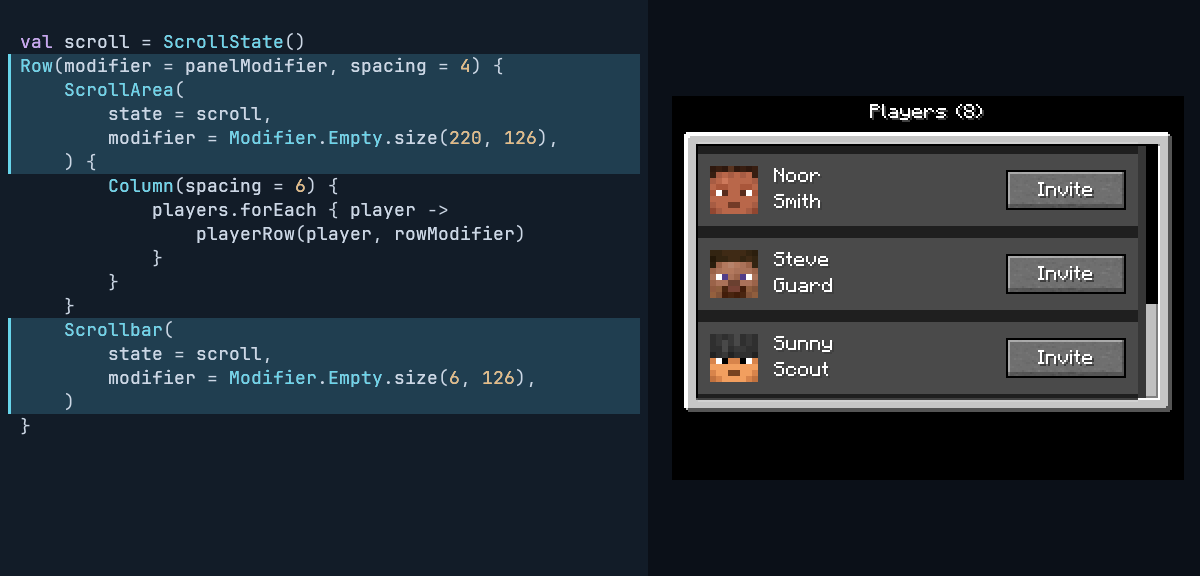
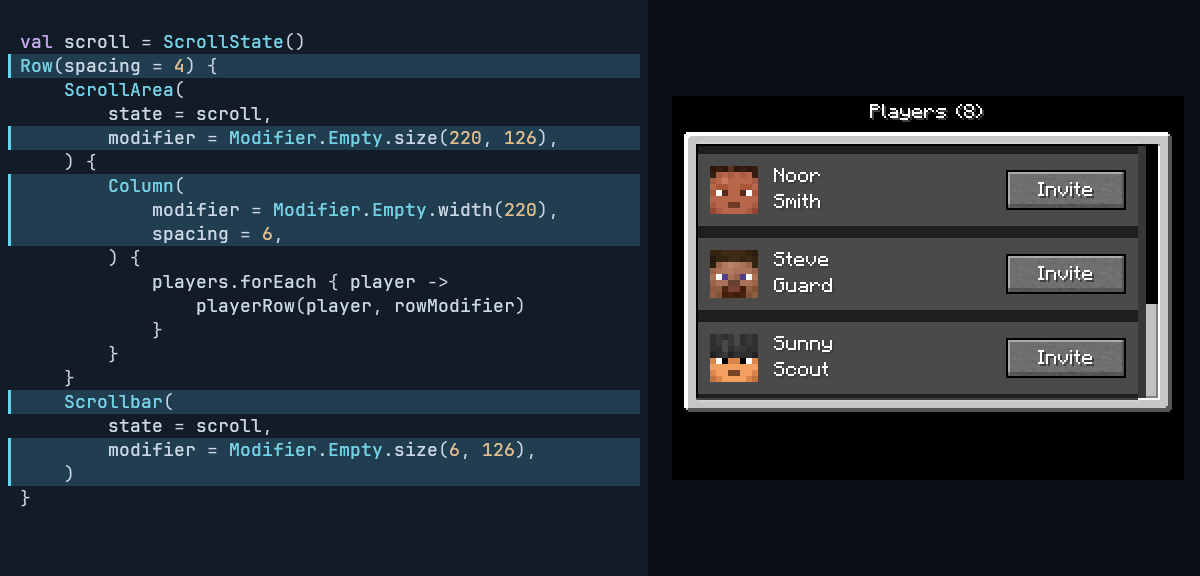
Set README demo list width on the outer Column

Changed region(s): [[0.0, 0.4688, 0.555, 0.8438], [0.0, 0.25, 0.555, 0.4688], [0.0, 0.0938, 0.555, 0.2188]]

diff --git a/integration/docs/src/test/kotlin/dev/s7a/strata/integration/docs/ReadmeDemoLayoutTest.kt b/integration/docs/src/test/kotlin/dev/s7a/strata/integration/docs/ReadmeDemoLayoutTest.kt
@@ -1,11 +1,16 @@
 package dev.s7a.strata.integration.docs
 
+import dev.s7a.strata.component.Column
 import dev.s7a.strata.geometry.IntOffset
 import dev.s7a.strata.geometry.IntRect
 import dev.s7a.strata.geometry.IntSize
 import dev.s7a.strata.input.InputResult
 import dev.s7a.strata.input.PointerEvent
+import dev.s7a.strata.integration.docs.example.ReadmeDemoChrome
 import dev.s7a.strata.integration.docs.example.ReadmeDemoColors
+import dev.s7a.strata.integration.docs.example.playerRow
+import dev.s7a.strata.modifier.Modifier
+import dev.s7a.strata.modifier.width
 import dev.s7a.strata.runtime.FrameTime
 import dev.s7a.strata.runtime.minecraft.createMinecraftUiHost
 import dev.s7a.strata.runtime.minecraft.font.lwjgl.LwjglMinecraftFontBackendFactory
@@ -22,7 +27,7 @@ import org.junit.jupiter.api.io.TempDir
 import java.nio.file.Path
 
 /**
- * Verifies natural sizing, fixed row widths, and text-only alignment using real compiled screen geometry.
+ * Verifies natural sizing, parent-controlled row widths, and text-only alignment using real compiled screen geometry.
  */
 @OptIn(InternalStrataRuntimeApi::class)
 internal class ReadmeDemoLayoutTest {
@@ -103,6 +108,36 @@ internal class ReadmeDemoLayoutTest {
                 val box = entry.bounds
                 assertTrue(0 <= box.left && box.right <= 256 && 0 <= box.top && box.bottom <= 192)
             }
+        }
+    }
+
+    @Test
+    fun outerColumnWidthControlsEveryRowWithoutChangingTheRowDefinition() {
+        val assets = ReadmeDemoFixture.assets(temporary)
+        val frames =
+            listOf(180, 220).map { width ->
+                val screen =
+                    ReadmeDemoChrome.screen(assets.panel) { rowModifier ->
+                        Column(Modifier.Empty.width(width), spacing = 6) {
+                            assets.players.take(3).forEach { player -> playerRow(player, rowModifier) }
+                        }
+                    }
+                createMinecraftUiHost(screen, assets.minecraft.profile, LwjglMinecraftFontBackendFactory).use { host ->
+                    host.attach()
+                    host.frame(IntSize(256, 192), FrameTime(0L))
+                }
+            }
+        assertEquals(List(3) { 180 }, rows(frames[0]).map { it.width })
+        assertEquals(List(3) { 220 }, rows(frames[1]).map { it.width })
+        rows(frames[0]).zip(rows(frames[1])).forEach { (narrow, wide) ->
+            assertEquals(narrow.left, wide.left)
+            assertEquals(narrow.top, wide.top)
+            assertEquals(narrow.height, wide.height)
+        }
+        buttons(frames[0]).zip(buttons(frames[1])).forEach { (narrow, wide) ->
+            assertEquals(narrow.bounds.size, wide.bounds.size)
+            assertEquals(narrow.bounds.top, wide.bounds.top)
+            assertEquals(40, wide.bounds.left - narrow.bounds.left)
         }
     }
 

diff --git a/integration/docs/src/readmeExamples/kotlin/dev/s7a/strata/integration/docs/example/ReadmeDemoChrome.kt b/integration/docs/src/readmeExamples/kotlin/dev/s7a/strata/integration/docs/example/ReadmeDemoChrome.kt
@@ -3,6 +3,7 @@ package dev.s7a.strata.integration.docs.example
 import dev.s7a.strata.component.Column
 import dev.s7a.strata.component.ImageSource
 import dev.s7a.strata.component.NineSliceCenterMode
+import dev.s7a.strata.component.Stack
 import dev.s7a.strata.component.Text
 import dev.s7a.strata.component.UiScope
 import dev.s7a.strata.geometry.Insets
@@ -22,14 +23,15 @@ import dev.s7a.strata.screen.ScreenDefinition
 internal object ReadmeDemoChrome {
     /**
      * Creates an unopened caller-owned definition with a roster count and original panel.
-     * The callback receives immutable active panel and row modifiers on the host thread.
+     * The callback receives an immutable row modifier inside the panel on the host thread.
+     * Panel decoration bounds the available space without fixing the child list width.
      * The caller owns the detached panel pixels; asset and layout failures propagate through screen evaluation.
      */
     fun screen(
         panel: ImageSource,
         playerCount: Int = 3,
         panelWidth: Int = 236,
-        content: UiScope.(Modifier, Modifier) -> Unit,
+        content: UiScope.(Modifier) -> Unit,
     ): ScreenDefinition =
         ScreenDefinition("Players") {
             Column(
@@ -47,8 +49,10 @@ internal object ReadmeDemoChrome {
                         .size(panelWidth, 142)
                         .imageBackground(panel, Insets.all(8), NineSliceCenterMode.Tiled)
                         .padding(8)
-                val rowModifier = Modifier.Empty.background(ReadmeDemoColors.row).padding(6)
-                content(panelModifier, rowModifier)
+                Stack(modifier = panelModifier) {
+                    val rowModifier = Modifier.Empty.background(ReadmeDemoColors.row).padding(6)
+                    content(rowModifier)
+                }
             }
         }
 }

diff --git a/integration/docs/src/readmeExamples/kotlin/dev/s7a/strata/integration/docs/example/FixedPlayersExample.kt b/integration/docs/src/readmeExamples/kotlin/dev/s7a/strata/integration/docs/example/FixedPlayersExample.kt
@@ -10,13 +10,14 @@ import dev.s7a.strata.component.Text
 import dev.s7a.strata.layout.HorizontalAlignment.Start
 import dev.s7a.strata.layout.VerticalAlignment.Center
 import dev.s7a.strata.modifier.Modifier
+import dev.s7a.strata.modifier.fillMaxWidth
 import dev.s7a.strata.modifier.width
 import dev.s7a.strata.screen.ScreenDefinition
 
 /**
  * Builds the fixed stage of the README player-list demonstration using only the public API.
  * The one-shot definition reads caller-owned immutable players on its host thread and propagates layout failures.
- * All child positions come from parent layout; the final stages fix row width and align only the weighted text column.
+ * All child positions come from parent layout; the final stages fix the outer list width and align only the weighted text column.
  *
  * @param players ordered offline presentation data, shared read-only with the definition.
  * @param panel detached original Minecraft Social Interactions panel.
@@ -26,12 +27,12 @@ internal fun fixedPlayersScreen(
     players: List<ReadmePlayer>,
     panel: ImageSource,
 ): ScreenDefinition =
-    ReadmeDemoChrome.screen(panel) { panelModifier, rowModifier ->
+    ReadmeDemoChrome.screen(panel) { rowModifier ->
         // readme-demo:start
-        Column(modifier = panelModifier, spacing = 6) {
+        Column(Modifier.Empty.width(220), spacing = 6) {
             players.forEach { player ->
                 Row(
-                    modifier = rowModifier.width(208),
+                    modifier = rowModifier.fillMaxWidth(),
                     spacing = 8,
                     verticalAlignment = Center,
                 ) {

diff --git a/integration/docs/src/readmeExamples/kotlin/dev/s7a/strata/integration/docs/example/LeftPlayersExample.kt b/integration/docs/src/readmeExamples/kotlin/dev/s7a/strata/integration/docs/example/LeftPlayersExample.kt
@@ -10,13 +10,14 @@ import dev.s7a.strata.component.Text
 import dev.s7a.strata.layout.HorizontalAlignment.Start
 import dev.s7a.strata.layout.VerticalAlignment.Center
 import dev.s7a.strata.modifier.Modifier
+import dev.s7a.strata.modifier.fillMaxWidth
 import dev.s7a.strata.modifier.width
 import dev.s7a.strata.screen.ScreenDefinition
 
 /**
  * Builds the left stage of the README player-list demonstration using only the public API.
  * The one-shot definition reads caller-owned immutable players on its host thread and propagates layout failures.
- * All child positions come from parent layout; the final stages fix row width and align only the weighted text column.
+ * All child positions come from parent layout; the final stages fix the outer list width and align only the weighted text column.
  *
  * @param players ordered offline presentation data, shared read-only with the definition.
  * @param panel detached original Minecraft Social Interactions panel.
@@ -26,12 +27,12 @@ internal fun leftPlayersScreen(
     players: List<ReadmePlayer>,
     panel: ImageSource,
 ): ScreenDefinition =
-    ReadmeDemoChrome.screen(panel) { panelModifier, rowModifier ->
+    ReadmeDemoChrome.screen(panel) { rowModifier ->
         // readme-demo:start
-        Column(modifier = panelModifier, spacing = 6) {
+        Column(Modifier.Empty.width(220), spacing = 6) {
             players.forEach { player ->
                 Row(
-                    modifier = rowModifier.width(208),
+                    modifier = rowModifier.fillMaxWidth(),
                     spacing = 8,
                     verticalAlignment = Center,
                 ) {

diff --git a/integration/docs/src/readmeExamples/kotlin/dev/s7a/strata/integration/docs/example/RightPlayersExample.kt b/integration/docs/src/readmeExamples/kotlin/dev/s7a/strata/integration/docs/example/RightPlayersExample.kt
@@ -10,13 +10,14 @@ import dev.s7a.strata.component.Text
 import dev.s7a.strata.layout.HorizontalAlignment.End
 import dev.s7a.strata.layout.VerticalAlignment.Center
 import dev.s7a.strata.modifier.Modifier
+import dev.s7a.strata.modifier.fillMaxWidth
 import dev.s7a.strata.modifier.width
 import dev.s7a.strata.screen.ScreenDefinition
 
 /**
  * Builds the right stage of the README player-list demonstration using only the public API.
  * The one-shot definition reads caller-owned immutable players on its host thread and propagates layout failures.
- * All child positions come from parent layout; the final stages fix row width and align only the weighted text column.
+ * All child positions come from parent layout; the final stages fix the outer list width and align only the weighted text column.
  *
  * @param players ordered offline presentation data, shared read-only with the definition.
  * @param panel detached original Minecraft Social Interactions panel.
@@ -26,12 +27,12 @@ internal fun rightPlayersScreen(
     players: List<ReadmePlayer>,
     panel: ImageSource,
 ): ScreenDefinition =
-    ReadmeDemoChrome.screen(panel) { panelModifier, rowModifier ->
+    ReadmeDemoChrome.screen(panel) { rowModifier ->
         // readme-demo:start
-        Column(modifier = panelModifier, spacing = 6) {
+        Column(Modifier.Empty.width(220), spacing = 6) {
             players.forEach { player ->
                 Row(
-                    modifier = rowModifier.width(208),
+                    modifier = rowModifier.fillMaxWidth(),
                     spacing = 8,
                     verticalAlignment = Center,
                 ) {

diff --git a/integration/docs/src/readmeExamples/kotlin/dev/s7a/strata/integration/docs/example/ScrollPlayersExample.kt b/integration/docs/src/readmeExamples/kotlin/dev/s7a/strata/integration/docs/example/ScrollPlayersExample.kt
@@ -8,6 +8,7 @@ import dev.s7a.strata.component.ScrollState
 import dev.s7a.strata.component.Scrollbar
 import dev.s7a.strata.modifier.Modifier
 import dev.s7a.strata.modifier.size
+import dev.s7a.strata.modifier.width
 import dev.s7a.strata.screen.ScreenDefinition
 
 /**
@@ -19,15 +20,18 @@ internal fun scrollPlayersScreen(
     players: List<ReadmePlayer>,
     panel: ImageSource,
 ): ScreenDefinition =
-    ReadmeDemoChrome.screen(panel, playerCount = players.size, panelWidth = 246) { panelModifier, rowModifier ->
+    ReadmeDemoChrome.screen(panel, playerCount = players.size, panelWidth = 246) { rowModifier ->
         // readme-demo:start
         val scroll = ScrollState()
-        Row(modifier = panelModifier, spacing = 4) {
+        Row(spacing = 4) {
             ScrollArea(
                 state = scroll,
                 modifier = Modifier.Empty.size(220, 126),
             ) {
-                Column(spacing = 6) {
+                Column(
+                    modifier = Modifier.Empty.width(220),
+                    spacing = 6,
+                ) {
                     players.forEach { player ->
                         playerRow(player, rowModifier)
                     }

diff --git a/integration/docs/src/readmeExamples/kotlin/dev/s7a/strata/integration/docs/example/ActionsPlayersExample.kt b/integration/docs/src/readmeExamples/kotlin/dev/s7a/strata/integration/docs/example/ActionsPlayersExample.kt
@@ -13,7 +13,7 @@ import dev.s7a.strata.screen.ScreenDefinition
 /**
  * Builds the actions stage of the README player-list demonstration using only the public API.
  * The one-shot definition reads caller-owned immutable players on its host thread and propagates layout failures.
- * All child positions come from parent layout; the final stages fix row width and align only the weighted text column.
+ * All child positions come from parent layout; the final stages fix the outer list width and align only the weighted text column.
  *
  * @param players ordered offline presentation data, shared read-only with the definition.
  * @param panel detached original Minecraft Social Interactions panel.
@@ -23,9 +23,9 @@ internal fun actionsPlayersScreen(
     players: List<ReadmePlayer>,
     panel: ImageSource,
 ): ScreenDefinition =
-    ReadmeDemoChrome.screen(panel) { panelModifier, rowModifier ->
+    ReadmeDemoChrome.screen(panel) { rowModifier ->
         // readme-demo:start
-        Column(modifier = panelModifier, spacing = 6) {
+        Column(spacing = 6) {
             players.forEach { player ->
                 Row(
                     modifier = rowModifier,

diff --git a/integration/docs/src/readmeExamples/kotlin/dev/s7a/strata/integration/docs/example/BasicPlayersExample.kt b/integration/docs/src/readmeExamples/kotlin/dev/s7a/strata/integration/docs/example/BasicPlayersExample.kt
@@ -12,7 +12,7 @@ import dev.s7a.strata.screen.ScreenDefinition
 /**
  * Builds the basic stage of the README player-list demonstration using only the public API.
  * The one-shot definition reads caller-owned immutable players on its host thread and propagates layout failures.
- * All child positions come from parent layout; the final stages fix row width and align only the weighted text column.
+ * All child positions come from parent layout; the final stages fix the outer list width and align only the weighted text column.
  *
  * @param players ordered offline presentation data, shared read-only with the definition.
  * @param panel detached original Minecraft Social Interactions panel.
@@ -22,9 +22,9 @@ internal fun basicPlayersScreen(
     players: List<ReadmePlayer>,
     panel: ImageSource,
 ): ScreenDefinition =
-    ReadmeDemoChrome.screen(panel) { panelModifier, rowModifier ->
+    ReadmeDemoChrome.screen(panel) { rowModifier ->
         // readme-demo:start
-        Column(modifier = panelModifier, spacing = 6) {
+        Column(spacing = 6) {
             players.forEach { player ->
                 Row(
                     modifier = rowModifier,

diff --git a/integration/docs/src/readmeExamples/kotlin/dev/s7a/strata/integration/docs/example/RolesPlayersExample.kt b/integration/docs/src/readmeExamples/kotlin/dev/s7a/strata/integration/docs/example/RolesPlayersExample.kt
@@ -12,7 +12,7 @@ import dev.s7a.strata.screen.ScreenDefinition
 /**
  * Builds the roles stage of the README player-list demonstration using only the public API.
  * The one-shot definition reads caller-owned immutable players on its host thread and propagates layout failures.
- * All child positions come from parent layout; the final stages fix row width and align only the weighted text column.
+ * All child positions come from parent layout; the final stages fix the outer list width and align only the weighted text column.
  *
  * @param players ordered offline presentation data, shared read-only with the definition.
  * @param panel detached original Minecraft Social Interactions panel.
@@ -22,9 +22,9 @@ internal fun rolesPlayersScreen(
     players: List<ReadmePlayer>,
     panel: ImageSource,
 ): ScreenDefinition =
-    ReadmeDemoChrome.screen(panel) { panelModifier, rowModifier ->
+    ReadmeDemoChrome.screen(panel) { rowModifier ->
         // readme-demo:start
-        Column(modifier = panelModifier, spacing = 6) {
+        Column(spacing = 6) {
             players.forEach { player ->
                 Row(
                     modifier = rowModifier,

diff --git a/integration/docs/src/readmeExamples/kotlin/dev/s7a/strata/integration/docs/example/AreaPlayersExample.kt b/integration/docs/src/readmeExamples/kotlin/dev/s7a/strata/integration/docs/example/AreaPlayersExample.kt
@@ -4,6 +4,9 @@ import dev.s7a.strata.component.Column
 import dev.s7a.strata.component.ImageSource
 import dev.s7a.strata.component.ScrollArea
 import dev.s7a.strata.component.ScrollState
+import dev.s7a.strata.modifier.Modifier
+import dev.s7a.strata.modifier.height
+import dev.s7a.strata.modifier.width
 import dev.s7a.strata.screen.ScreenDefinition
 
 /**
@@ -15,11 +18,14 @@ internal fun areaPlayersScreen(
     players: List<ReadmePlayer>,
     panel: ImageSource,
 ): ScreenDefinition =
-    ReadmeDemoChrome.screen(panel, playerCount = players.size) { panelModifier, rowModifier ->
+    ReadmeDemoChrome.screen(panel, playerCount = players.size) { rowModifier ->
         // readme-demo:start
         val scroll = ScrollState()
-        ScrollArea(state = scroll, modifier = panelModifier) {
-            Column(spacing = 6) {
+        ScrollArea(
+            state = scroll,
+            modifier = Modifier.Empty.height(126),
+        ) {
+            Column(Modifier.Empty.width(220), spacing = 6) {
                 players.forEach { player ->
                     playerRow(player, rowModifier)
                 }

diff --git a/integration/docs/src/main/kotlin/dev/s7a/strata/integration/docs/ReadmeDemoPipeline.kt b/integration/docs/src/main/kotlin/dev/s7a/strata/integration/docs/ReadmeDemoPipeline.kt
@@ -96,7 +96,7 @@ internal object ReadmeDemoPipeline {
             appendLine()
             appendLine("# Add components. Let the layout make room.")
             appendLine()
-            appendLine("Three players first demonstrate added content, fixed widths, and text alignment; five more then arrive one at a time before scrolling is added.")
+            appendLine("Three players first demonstrate added content, a fixed list width, and text alignment; five more then arrive one at a time before scrolling is added.")
             appendLine("Every screen is freshly rendered by Strata Headless from the compiled Kotlin example and original Minecraft assets.")
             appendLine("Overflow during the five short arrival frames is intentional: ScrollArea then contains the list, and a separately added Scrollbar shares its state.")
             appendLine("The GIF compares source revisions; it does not demonstrate hot reload or an in-game invitation service.")

diff --git a/integration/docs/src/readmeExamples/kotlin/dev/s7a/strata/integration/docs/example/ReadmePlayerRow.kt b/integration/docs/src/readmeExamples/kotlin/dev/s7a/strata/integration/docs/example/ReadmePlayerRow.kt
@@ -10,10 +10,10 @@ import dev.s7a.strata.component.UiScope
 import dev.s7a.strata.layout.HorizontalAlignment.Start
 import dev.s7a.strata.layout.VerticalAlignment.Center
 import dev.s7a.strata.modifier.Modifier
-import dev.s7a.strata.modifier.width
+import dev.s7a.strata.modifier.fillMaxWidth
 
 /**
- * Reuses the completed fixed-width player row while the final chapters change list size and scrolling.
+ * Reuses the completed player row, filling its parent list width, while the final chapters change list size and scrolling.
  * Reads caller-owned immutable presentation data on the active host thread and propagates layout failures.
  */
 internal fun UiScope.playerRow(
@@ -21,7 +21,7 @@ internal fun UiScope.playerRow(
     rowModifier: Modifier,
 ) {
     Row(
-        modifier = rowModifier.width(208),
+        modifier = rowModifier.fillMaxWidth(),
         spacing = 8,
         verticalAlignment = Center,
     ) {
